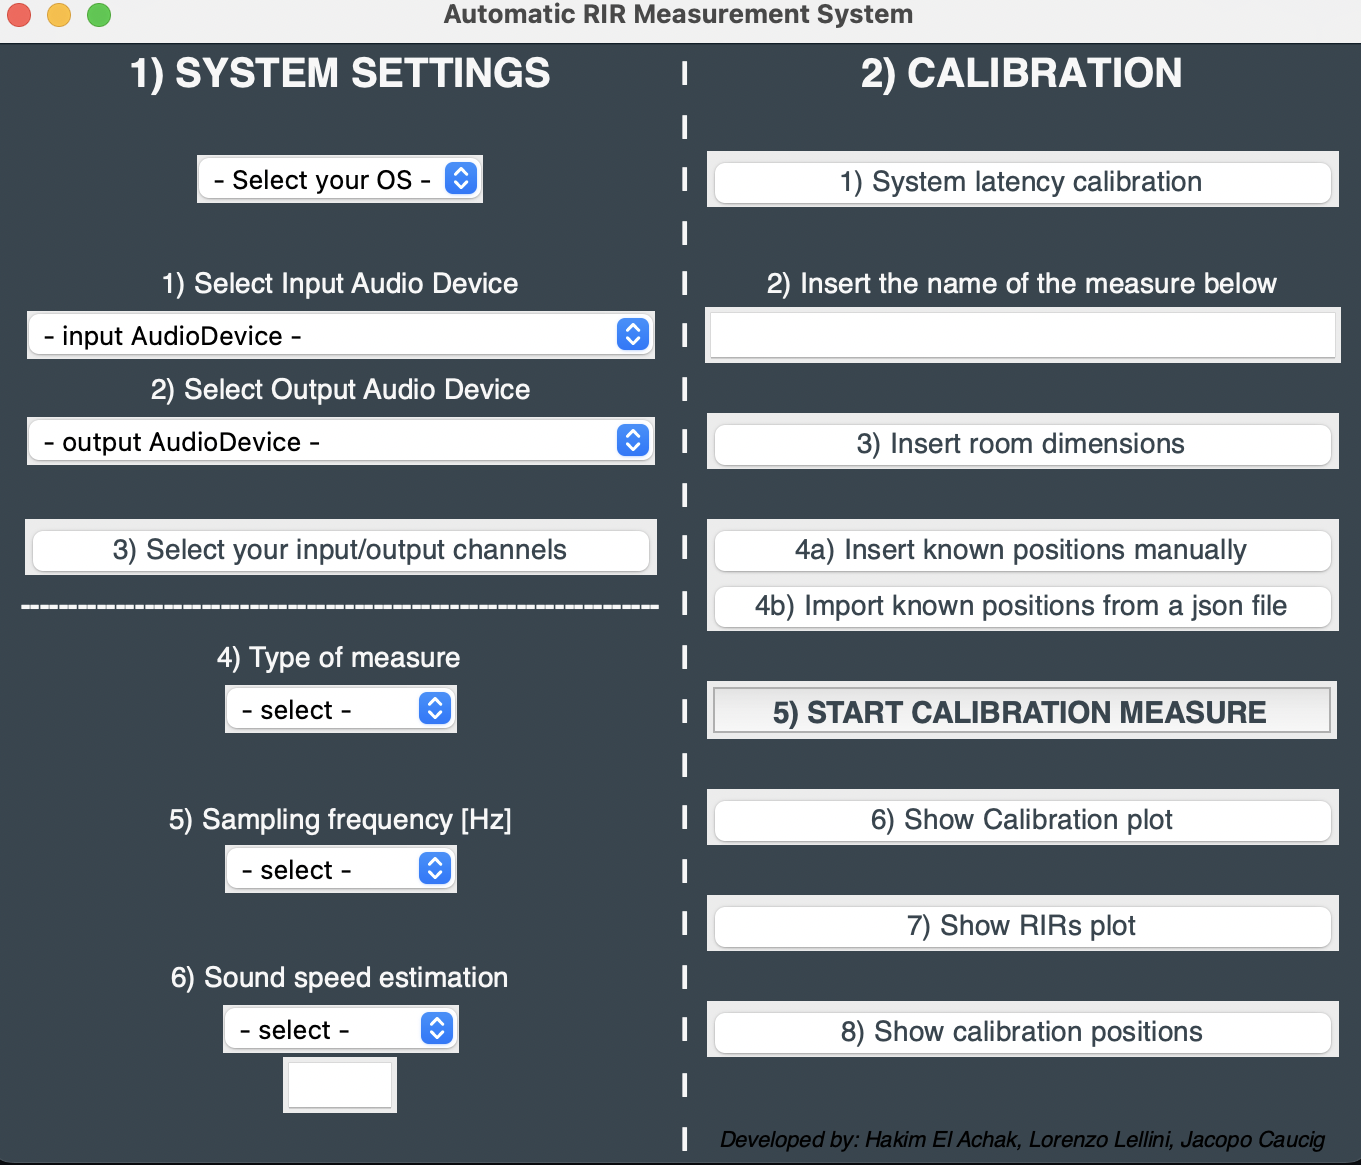
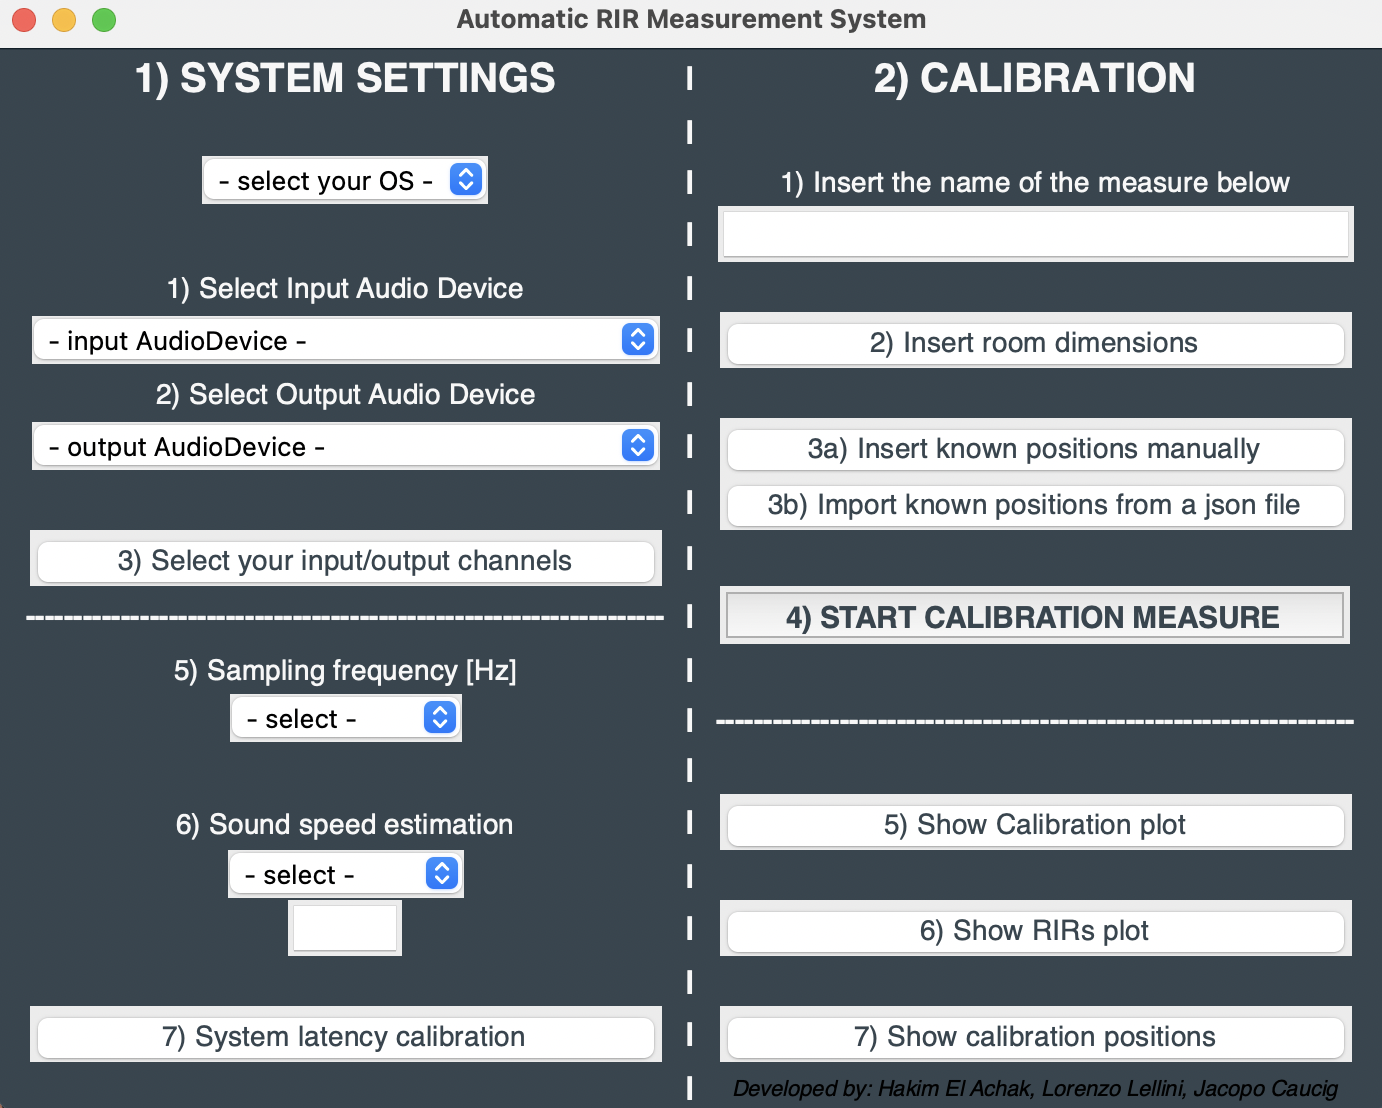
adjustements

diff --git a/RIR_Framework/Main_RIR_Framework.py b/RIR_Framework/Main_RIR_Framework.py
@@ -222,7 +222,7 @@ Horizontalspace = tk.Label(mainWindow,  text='----------------------------------
 #opt5.grid(row=13, column=2)
 
 ###################### 5 - Selezione Sampling Frequency ######################
-frequencyLabel = tk.Label(mainWindow, text="5) Sampling frequency [Hz]",font='Helvetica 14', bg='#36454f', fg='#f7f7f7')
+frequencyLabel = tk.Label(mainWindow, text="4) Sampling frequency [Hz]",font='Helvetica 14', bg='#36454f', fg='#f7f7f7')
 frequencyLabel.grid(row=12, column=2)
 
 InputDevicesListFreq = [44100,48000,96000]
@@ -234,7 +234,7 @@ opt6.grid(row=13, column=2)
 
 ###################### 6 - Sound Speed estimation ######################
 space = tk.Label(mainWindow,  text='\n',font='Helvetica 8', bg='#36454f').grid(row=14, column=2)
-soundSpeedLabel = tk.Label(mainWindow, text="6) Sound speed estimation",font='Helvetica 14', bg='#36454f', fg='#f7f7f7')
+soundSpeedLabel = tk.Label(mainWindow, text="5) Sound speed estimation",font='Helvetica 14', bg='#36454f', fg='#f7f7f7')
 soundSpeedLabel.grid(row=15, column=2)
 
 InputDevicesListSoundSpeed = ['Set default value (343 [m/s])', 'Insert temperature in °C below']
@@ -312,7 +312,7 @@ def measureCalWindow():
         signalTest = tk.Button(measureCalWindow, width= 8, height= 1, text='CALIBRATE', font='Helvetica 16 bold', command=EstimLatency, fg='#36454f').grid(row=13, column=2)
 
 space = tk.Label(mainWindow,  text='\n',font='Helvetica 8', bg='#36454f').grid(row=18, column=2)
-testSignalButton = tk.Button(mainWindow, height=1, width=35, text="7) System latency calibration", command=measureCalWindow,font='Helvetica 14', fg='#36454f')
+testSignalButton = tk.Button(mainWindow, height=1, width=35, text="6) System latency calibration", command=measureCalWindow,font='Helvetica 14', fg='#36454f')
 testSignalButton.grid(row=19, column=2)   
 
 ################################################################################################################################################
